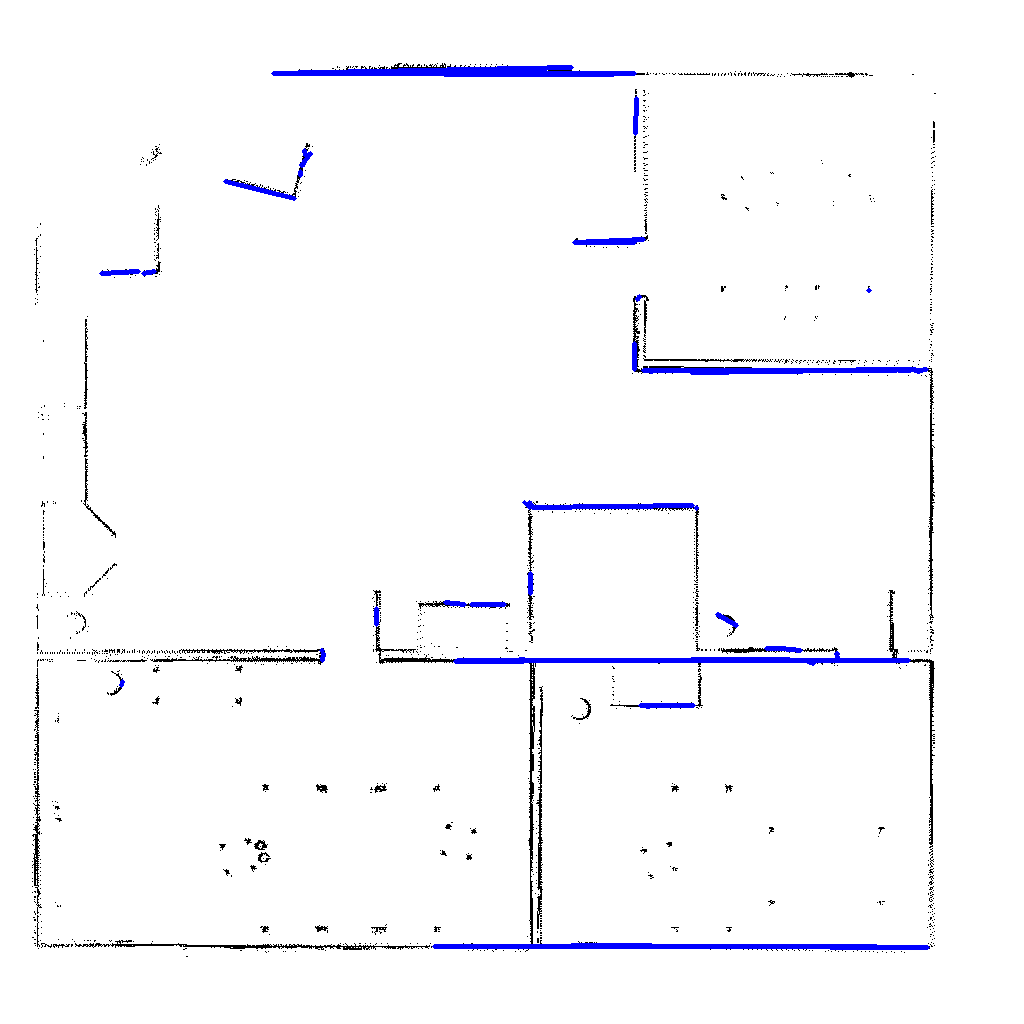
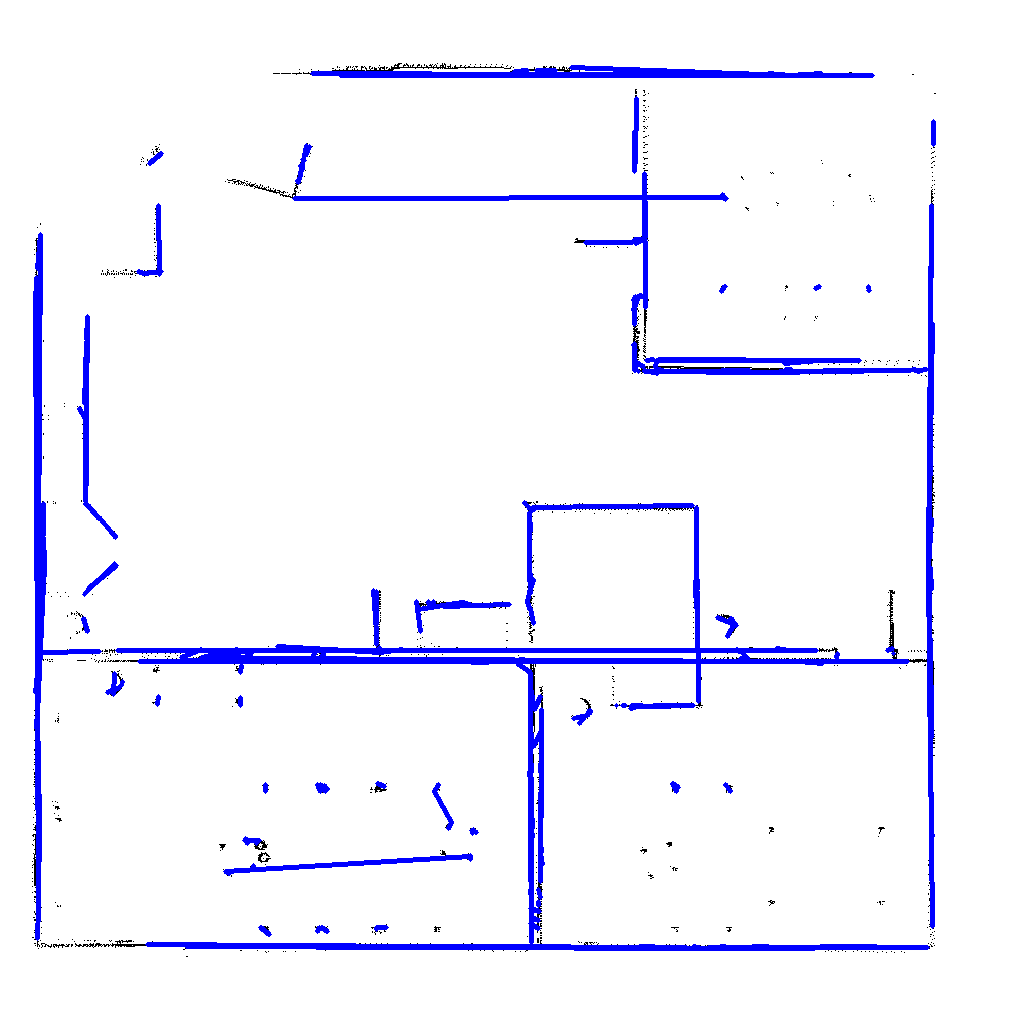
Getting good lines, still closing the doors with walls

diff --git a/feature_extraction.py b/feature_extraction.py
@@ -5,9 +5,10 @@ import random
 
 
 def ransac_inverted_plane(points, canvas):
+    lines = []
     good = 0
-    while good <= 30:
-        #print("Iter number #", good)
+    while good <= 100:
+        print("Iter number #", good)
         valid_guess = False
         guess1 = 0
         guess2 = 0
@@ -63,6 +64,7 @@ def ransac_inverted_plane(points, canvas):
                         cv2.line(canvas, (int((1024/14)*(p_0[0] + 6)), (1024 - int((1024/14)*(p_0[1] + 8)))), (int((1024/14)*(last_x + 6)), (1024 - int((1024/14)*(last_y + 8)))), (255, 0, 0), 3)
                         cv2.imwrite("features.png", canvas)
                         to_be_deleted += to_be_deleted_iter
+                        lines.append([p_0[0], p_0[1], last_x, last_y])
                     n_points = 0
                     p_0[0] = points[idx][0]
                     p_0[1] = points[idx][1]
@@ -77,11 +79,13 @@ def ransac_inverted_plane(points, canvas):
             points = np.delete(points, to_be_deleted, axis=0)
         good += 1
 
+    return np.asarray(lines, dtype=np.float32)
+
 def ransac_regular_plane(points, canvas):
 
     lines = []
     good = 0
-    while good <= 20:
+    while good <= 100:
         print("Iter number #", good)
         valid_guess = False
         guess1 = 0
@@ -309,7 +313,7 @@ def main():
         #print(x, y)
 
     #points = points.reshape((-1, 1, 2))
-
+    
     regular_lines = ransac_regular_plane(sorted_points, plot_arr)
     regular_lines = regular_lines[regular_lines[:, 0].argsort()]
     regular_lines = regular_lines[regular_lines[:, 1].argsort(kind='mergesort')]
@@ -343,12 +347,42 @@ def main():
         cv2.line(plot_arr, (int((1024/14)*(regular_lines[start_idx][0] + 6)), (1024 - int((1024/14)*(regular_lines[start_idx][1] + 8)))), (int((1024/14)*(last_line[2] + 6)), (1024 - int((1024/14)*(last_line[3] + 8)))), (255, 0, 0), 3)
 
     cv2.imwrite("features.png", plot_arr)
-
+    
 
     sorted_points = points[points[:, 0].argsort()]
     sorted_points = sorted_points[sorted_points[:, 1].argsort(kind='mergesort')]
-    #ransac_inverted_plane(sorted_points, plot_arr)
+    inverted_lines = ransac_inverted_plane(sorted_points, plot_arr)
+    inverted_lines = inverted_lines[inverted_lines[:, 1].argsort()]
+    inverted_lines = inverted_lines[inverted_lines[:, 0].argsort(kind='mergesort')]
 
+    last_line = []
+    start_idx = 0
+    last_incl = 0
+    if inverted_lines.any():
+        last_line = inverted_lines[0]
+        last_incl = (last_line[2] - last_line[0])/(last_line[3] - last_line[1])
+        incl = (last_line[2] - last_line[0])/(last_line[3] - last_line[1])
+
+    for idx, line in enumerate(inverted_lines):
+        print("line:", line)
+        if idx != start_idx:
+            #print("09")
+            incl = (line[2] - line[0])/(line[3] - line[1])
+            diff_incl = abs(last_incl - incl)
+            dist_y = abs(line[3] - last_line[1])
+            dist_x = abs(line[0] - last_line[2])#math.sqrt((line[1] - last_line[3])**2 + (line[0] - last_line[2])**2)
+            #print("incl", incl, "dist", dist)
+            if diff_incl > 0.1 or (dist_y > 0.2 and dist_x > 0.3):
+                #print("w0w", idx)
+                cv2.line(plot_arr, (int((1024/14)*(inverted_lines[start_idx][0] + 6)), (1024 - int((1024/14)*(inverted_lines[start_idx][1] + 8)))), (int((1024/14)*(last_line[2] + 6)), (1024 - int((1024/14)*(last_line[3] + 8)))), (255, 0, 0), 3)
+                start_idx = idx
+                #cv2.putText(plot_arr, str(idx), (int((1024/14)*(inverted_lines[start_idx][0] + 6)), (1024 - int((1024/14)*(inverted_lines[start_idx][1] + 8)))), cv2.FONT_HERSHEY_SIMPLEX, 1, (0, 0, 255), 3)
+
+        last_line = line
+        last_incl = incl
+        cv2.line(plot_arr, (int((1024/14)*(inverted_lines[start_idx][0] + 6)), (1024 - int((1024/14)*(inverted_lines[start_idx][1] + 8)))), (int((1024/14)*(last_line[2] + 6)), (1024 - int((1024/14)*(last_line[3] + 8)))), (255, 0, 0), 3)
+
+    cv2.imwrite("features_after_vertical.png", plot_arr)
 
     #print("intersection_points")
 
